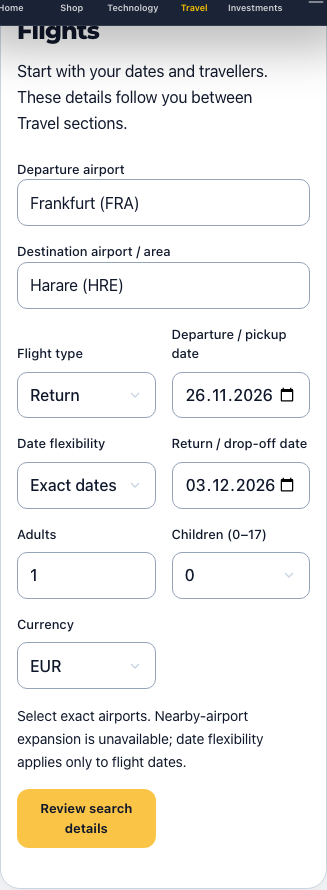
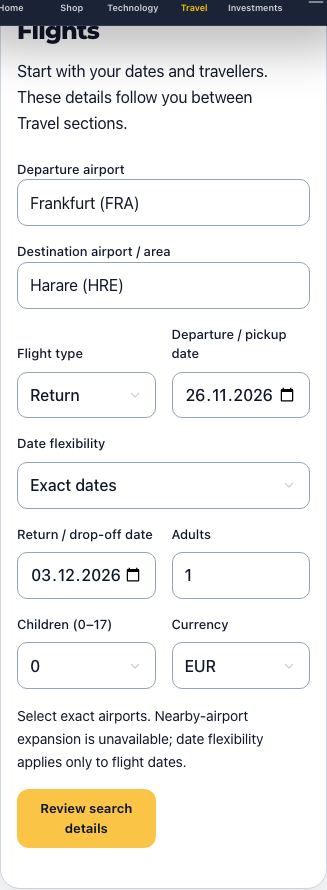
Prevent German date-flexibility labels clipping on narrow phones

diff --git a/du-platform-frontend/src/modules/travel/SearchPanel.tsx b/du-platform-frontend/src/modules/travel/SearchPanel.tsx
@@ -236,7 +236,7 @@ export default function SearchPanel({
           category === "stays" ? "check-in" : "departure"
         )}
         {category === "flights" && (
-          <label>
+          <label className="travel-flex-field">
             {t("travel.live.flex-days")}
             <select
               value={c.flightFlexDays ?? 0}

diff --git a/du-platform-frontend/src/modules/travel/travel.css b/du-platform-frontend/src/modules/travel/travel.css
@@ -249,6 +249,9 @@
   }
 }
 @media (max-width: 380px) {
+  .travel-form .travel-flex-field {
+    grid-column: 1 / -1;
+  }
   .travel-nav a {
     padding: 0.6rem 0.75rem;
   }
